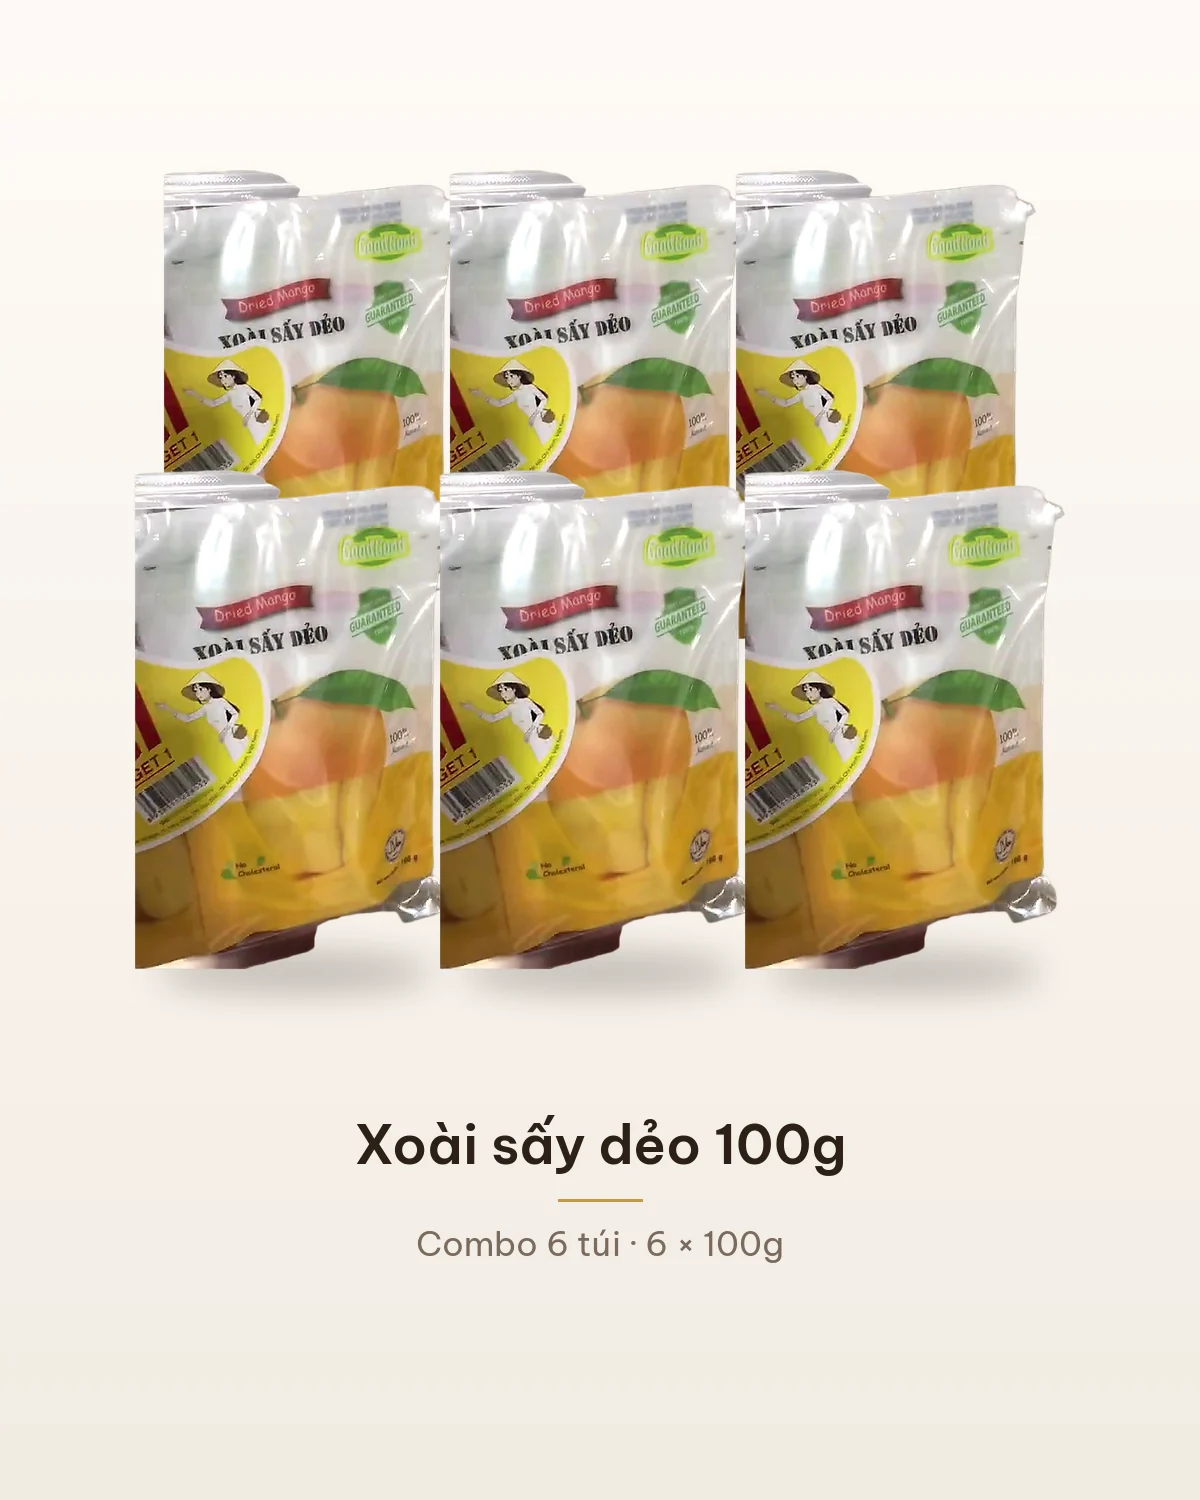
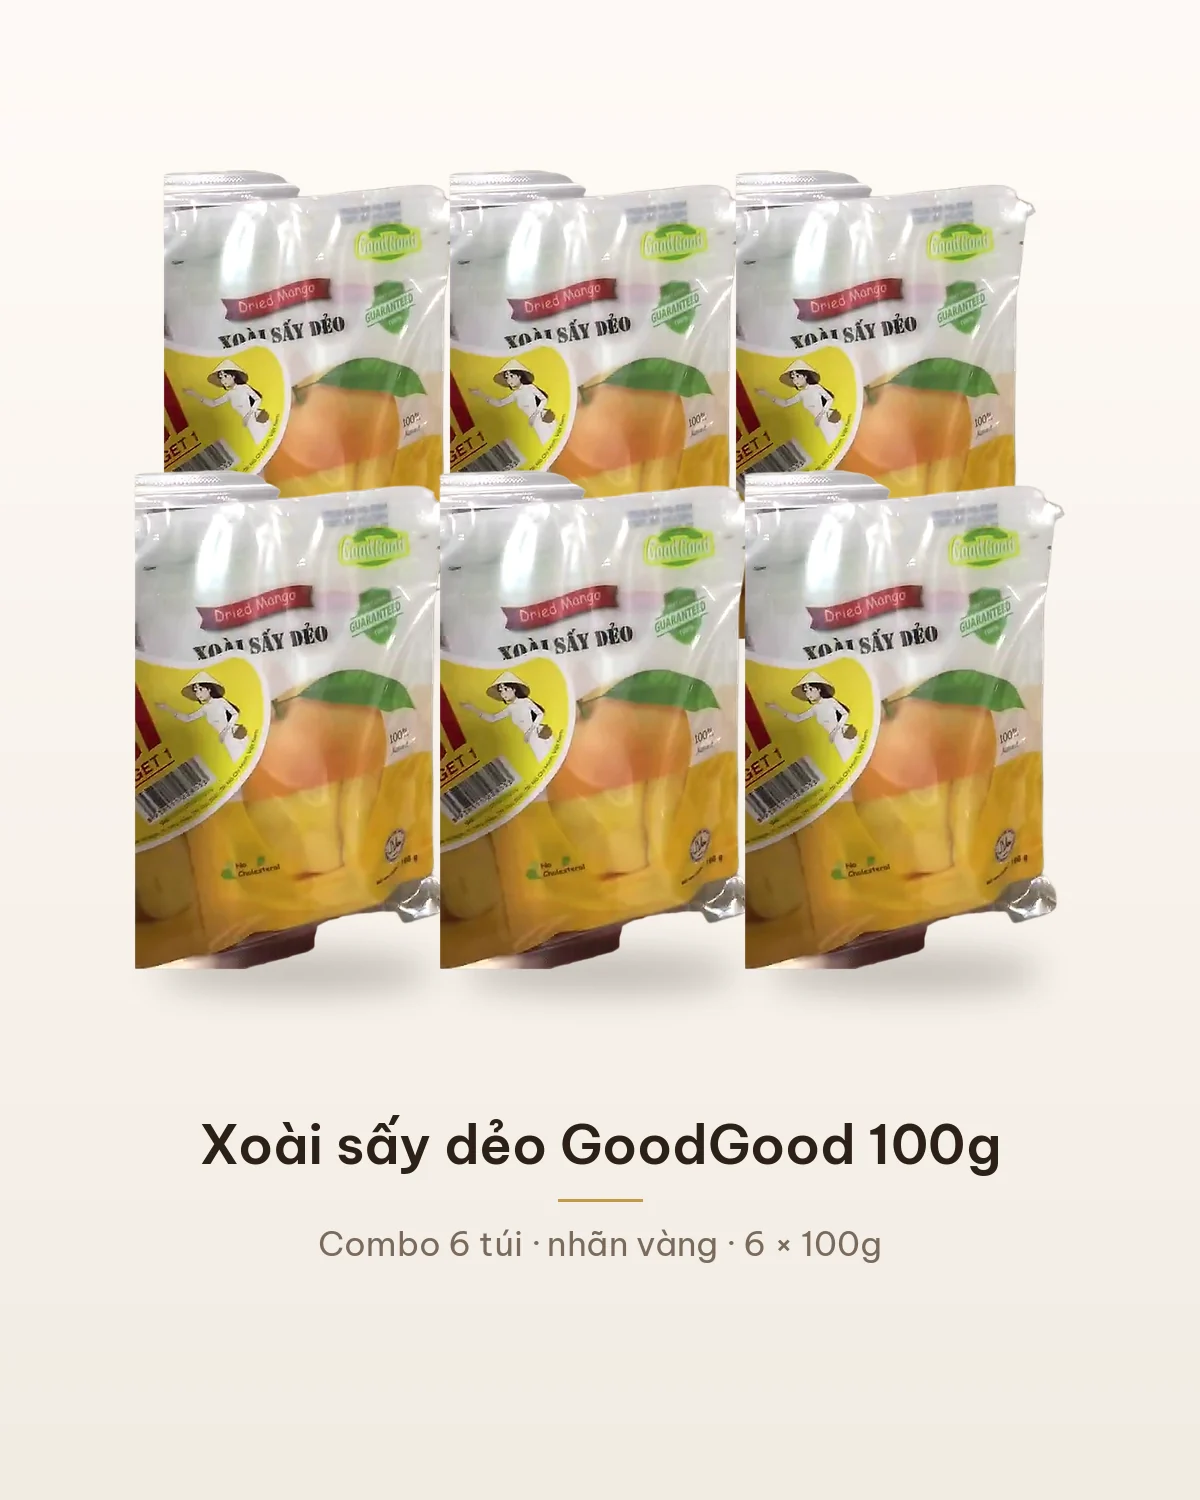
Combo Cheers 3 túi + combo 6 túi xoài: ảnh ghép đủ túi (không còn chữ Mua 5 tặng 1), hiện trọn khung; ảnh danh mục cùng mã

Changed region(s): [[0.1542, 0.736, 0.8325, 0.8587]]

diff --git a/js/data.js b/js/data.js
@@ -152,8 +152,8 @@ MQ.PRODUCTS = [
  {id:'combo-xoai-say-deo-100g',name:'Combo 6 túi xoài sấy dẻo 100g',cat:'deo',fruit:'xoai',flavour:'nguyen',maker:'viza',rank:2,badge:'Combo',
   packs:{vang:{name:'Vàng · GoodGood',c:['#ffffff','#f2b705']},xanh:{name:'Xanh · Fresh & Healthy',c:['#ffffff','#3fae3a']},tron:{name:'Trộn 2 nhãn',c:['#f2b705','#3fae3a']}},
   pknote:'Cùng một giá cho cả hai nhãn. Chọn "Trộn 2 nhãn" và ghi số túi mỗi màu vào ghi chú đơn hàng (ví dụ: 3 vàng + 3 xanh).',
-  variants:[VP('vang','MQ-CBX-100-GG','Combo 6 túi 100g',600,'goodgood',259000,'vzx-combo100','vzx-combo100v'),VP('xanh','MQ-CBX-100-FH','Combo 6 túi 100g',600,'fh',259000,'fhx-dayxanh-100r','vzx-combo100'),VP('tron','MQ-CBX-100-MIX','Combo 6 túi 100g',600,'goodgood',259000,'vzx-combo100','fhx-dayxanh-100r')],
-  video:{src:'video/combo-xoai-100g.mp4',poster:'video/combo-xoai-100g-poster.jpg'},
+  fit45:['products/vz/combo-xoai-6tui.webp','products/vz/combo-xoai-6tui-xanh.webp','products/vz/combo-xoai-6tui-tron.webp'],
+  variants:[VP('vang','MQ-CBX-100-GG','Combo 6 túi 100g',600,'goodgood',259000,'vz/combo-xoai-6tui.webp'),VP('xanh','MQ-CBX-100-FH','Combo 6 túi 100g',600,'fh',259000,'vz/combo-xoai-6tui-xanh.webp'),VP('tron','MQ-CBX-100-MIX','Combo 6 túi 100g',600,'goodgood',259000,'vz/combo-xoai-6tui-tron.webp')],
   taste:{ngot:4,chua:2,deo:4,gion:0},
   short:'6 túi xoài sấy dẻo 100g giá combo 259.000đ (≈ 43.000đ / túi, mua lẻ 49.000đ / túi). Chọn nhãn vàng GoodGood, nhãn xanh Fresh & Healthy hoặc trộn cả hai.',
   long:'Combo đóng sẵn trong túi zip trong, gồm 6 túi. Bên trong là các túi xoài sấy dẻo 100g của Viza Food: nhãn vàng GoodGood hoặc nhãn xanh Fresh & Healthy, cùng một giá.',
@@ -587,8 +587,8 @@ MQ.PRODUCTS = [
   variants:[V("VZ-GG-CB2XC-200","2 × 100g",200,'goodgood',95000,'vz/vz-gg-cb-xc.webp')],
   short:"Combo xoài muối ớt + cóc muối ớt – Good Good, 2 × 100g.",
   long:"Combo xoài muối ớt + cóc muối ớt – Good Good, 2 × 100g."},
- {id:"vz-ch-cb3x",comboOf:["MQ-DXC-200-CHA","MQ-DXC-200-CHA","MQ-DXC-200-CHA"],related:["xoai-chin-cay"],name:"Combo 3 túi xoài sấy dẻo Cheers+ 200g",cat:'deo',fruit:'xoai',flavour:'nguyen',maker:'viza',rank:48,badge:"Combo",
-  variants:[V("VZ-CH-CB3X-600","3 × 200g",600,'cheers',195000,'vz/vz-ch-cb3x.webp')],
+ {id:"vz-ch-cb3x",comboOf:["MQ-DXC-200-CHA","MQ-DXC-200-CHA","MQ-DXC-200-CHA"],related:["xoai-chin-cay"],fit45:["products/vz/vz-ch-cb3x-3tui.webp"],name:"Combo 3 túi xoài sấy dẻo Cheers+ 200g",cat:'deo',fruit:'xoai',flavour:'nguyen',maker:'viza',rank:48,badge:"Combo",
+  variants:[V("VZ-CH-CB3X-600","3 × 200g",600,'cheers',195000,'vz/vz-ch-cb3x-3tui.webp')],
   short:"3 túi xoài sấy dẻo Cheers+ 200g, 195.000đ (mua lẻ 3 × 75.000đ = 225.000đ). Chọn màu túi đỏ hoặc xanh lá ở ô Ghi chú khi đặt hàng, cùng giá.",
   long:"Combo 3 túi xoài sấy dẻo Cheers+ 200g, xoài chín cây sấy dẻo của Viza Food. Giá combo 195.000đ, tiết kiệm 30.000đ so với mua lẻ. Bạn chọn màu túi (đỏ hoặc xanh lá) ở ô Ghi chú khi đặt hàng; không ghi thì Mộc Quả gửi màu sẵn có. Mua 2 túi 200g: 139.000đ."},
  {id:"vz-ym-mt",name:"Sầu riêng Monthong sấy thăng hoa Yummy",cat:'thanghoa',fruit:'saurieng',flavour:'nguyen',maker:'viza',rank:49,badge:"Giá tạm tính",

diff --git a/server/selfcheck.js b/server/selfcheck.js
@@ -831,6 +831,21 @@ test('danh mục có nút thêm vào giỏ đúng mã cửa hàng; cửa hàng d
     assert.equal(th.subtotal, 1119000);
     assert.equal(th.discount, Math.floor((199000 * 8) / 100 / 1000) * 1000);
     assert.equal(th.ship, 0);
+    // Combo Cheers 3 túi + combo 6 túi xoài: ảnh ghép đủ túi, hiện trọn; không còn ảnh/video "Mua 5 tặng 1" hay poster khuyến mãi.
+    const ch3 = await (await fetch(base + '/san-pham/vz-ch-cb3x')).text();
+    assert.match(ch3, /<img id="pdp-main" class="is-45" src="\/assets\/products\/vz\/vz-ch-cb3x-3tui\.webp"/);
+    assert.doesNotMatch(ch3, /vz-ch-cb3x\.webp/);
+    const x6 = await (await fetch(base + '/san-pham/combo-xoai-say-deo-100g')).text();
+    assert.match(x6, /<img id="pdp-main" class="is-45" src="\/assets\/products\/vz\/combo-xoai-6tui\.webp"/);
+    for (const f of ['combo-xoai-6tui-xanh', 'combo-xoai-6tui-tron']) assert.match(x6, new RegExp('"fit45":\\[[^\\]]*/assets/products/vz/' + f + '\\.webp'));
+    assert.doesNotMatch(x6, /vzx-combo100|combo-xoai-100g/);
+    assert.doesNotMatch(shop, /vzx-combo100|vz-ch-cb3x\.webp/);
+    {
+      const dmj = JSON.parse(fs.readFileSync(new URL('./data/danh-muc.json', import.meta.url), 'utf8'));
+      const imgs = JSON.stringify((dmj.products || dmj).map((x) => x.images));
+      assert.doesNotMatch(imgs, /catalog\/vz-ch-cb3x(-sm)?\.webp/);
+      assert.match(imgs, /catalog\/vz-ch-cb3x-3tui\.webp/);
+    }
     // Combo Premium 3 vị: ảnh đầu là 3 túi đứng cạnh nhau, rồi từng túi; không còn ảnh kệ Cheers+ (viza-ke-02).
     const cb3 = await (await fetch(base + '/san-pham/vz-ps-cb3')).text();
     assert.match(cb3, /id="pdp-main" class="is-45" src="\/assets\/products\/vz\/vz-ps-cb3-3tui\.webp"/);
